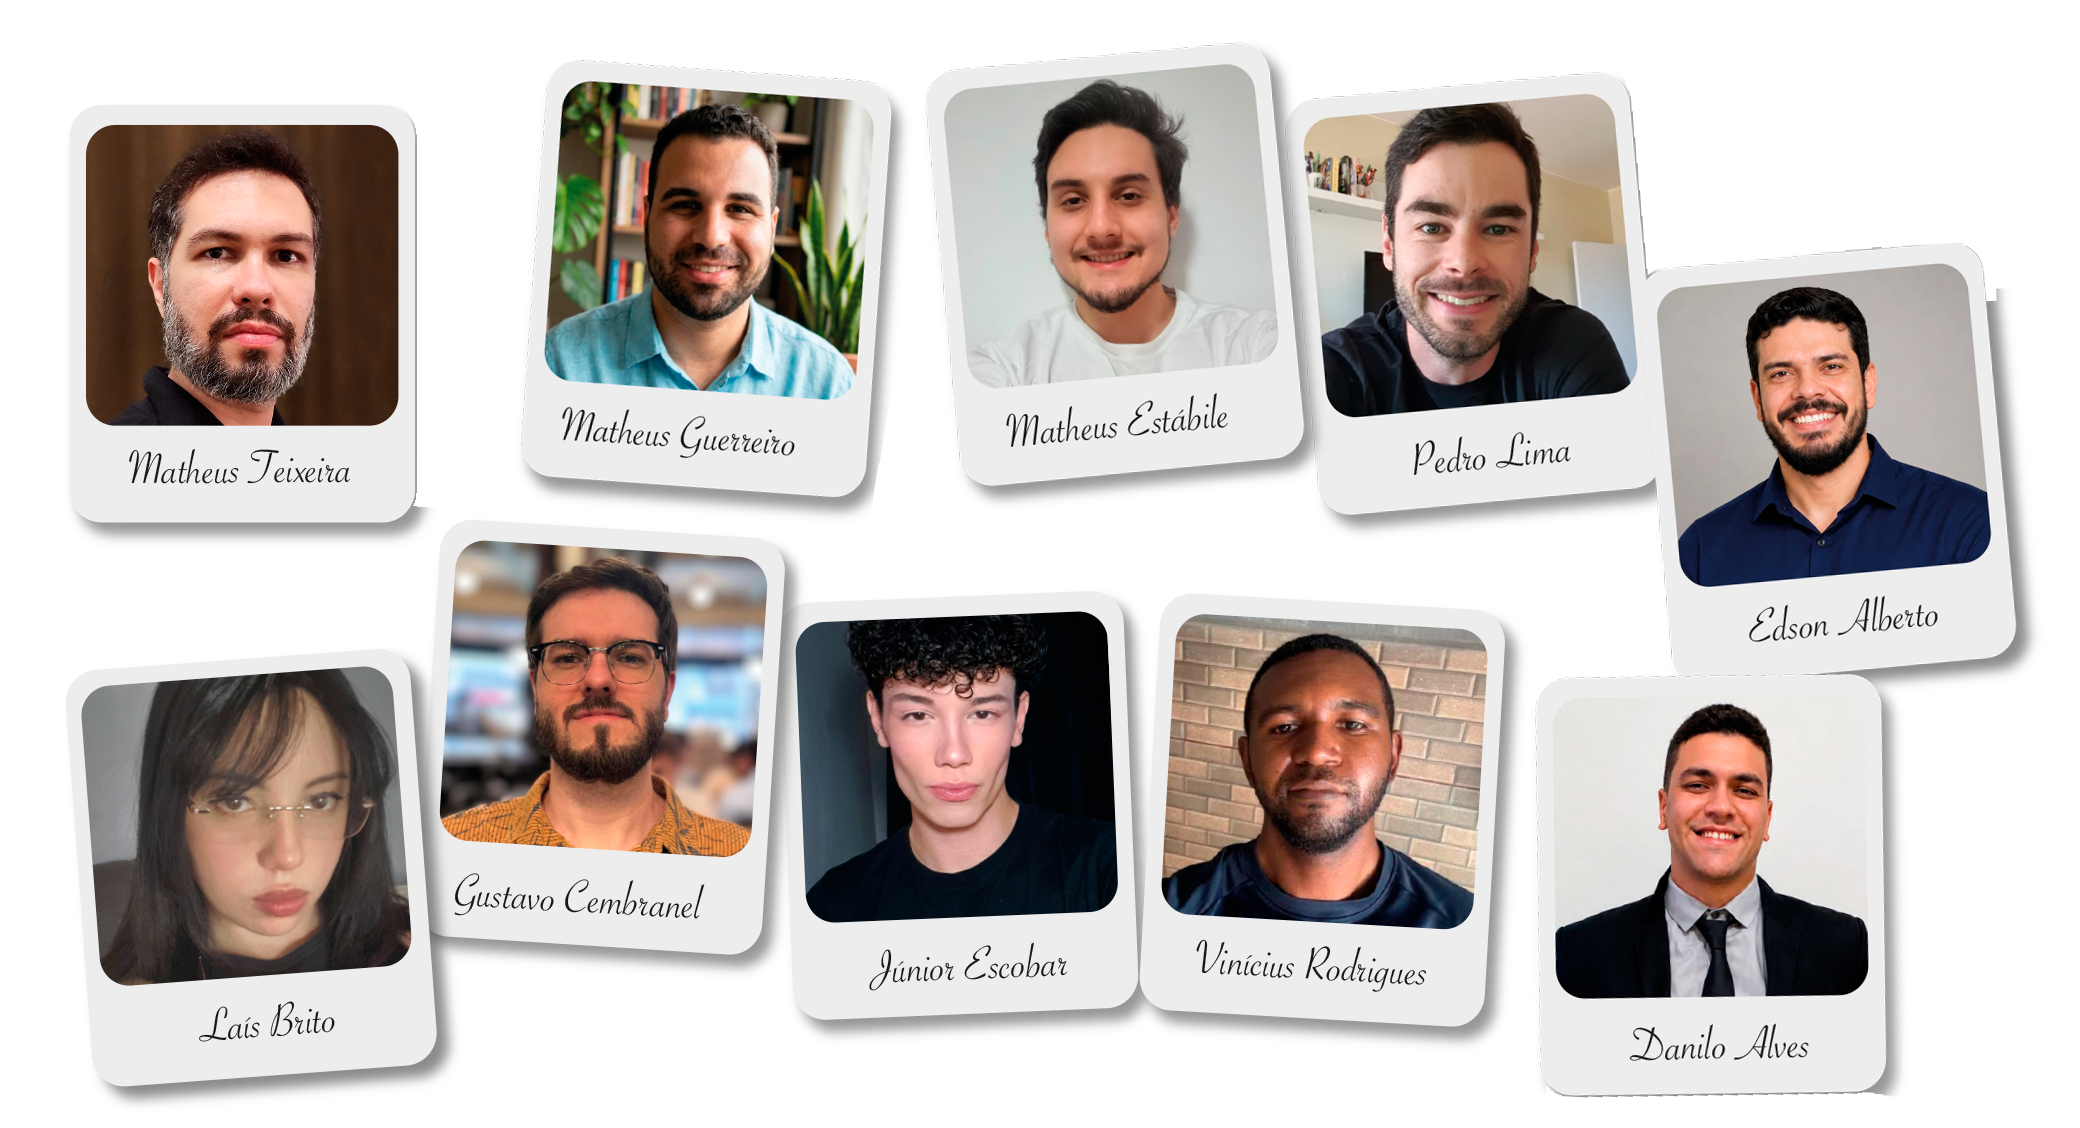
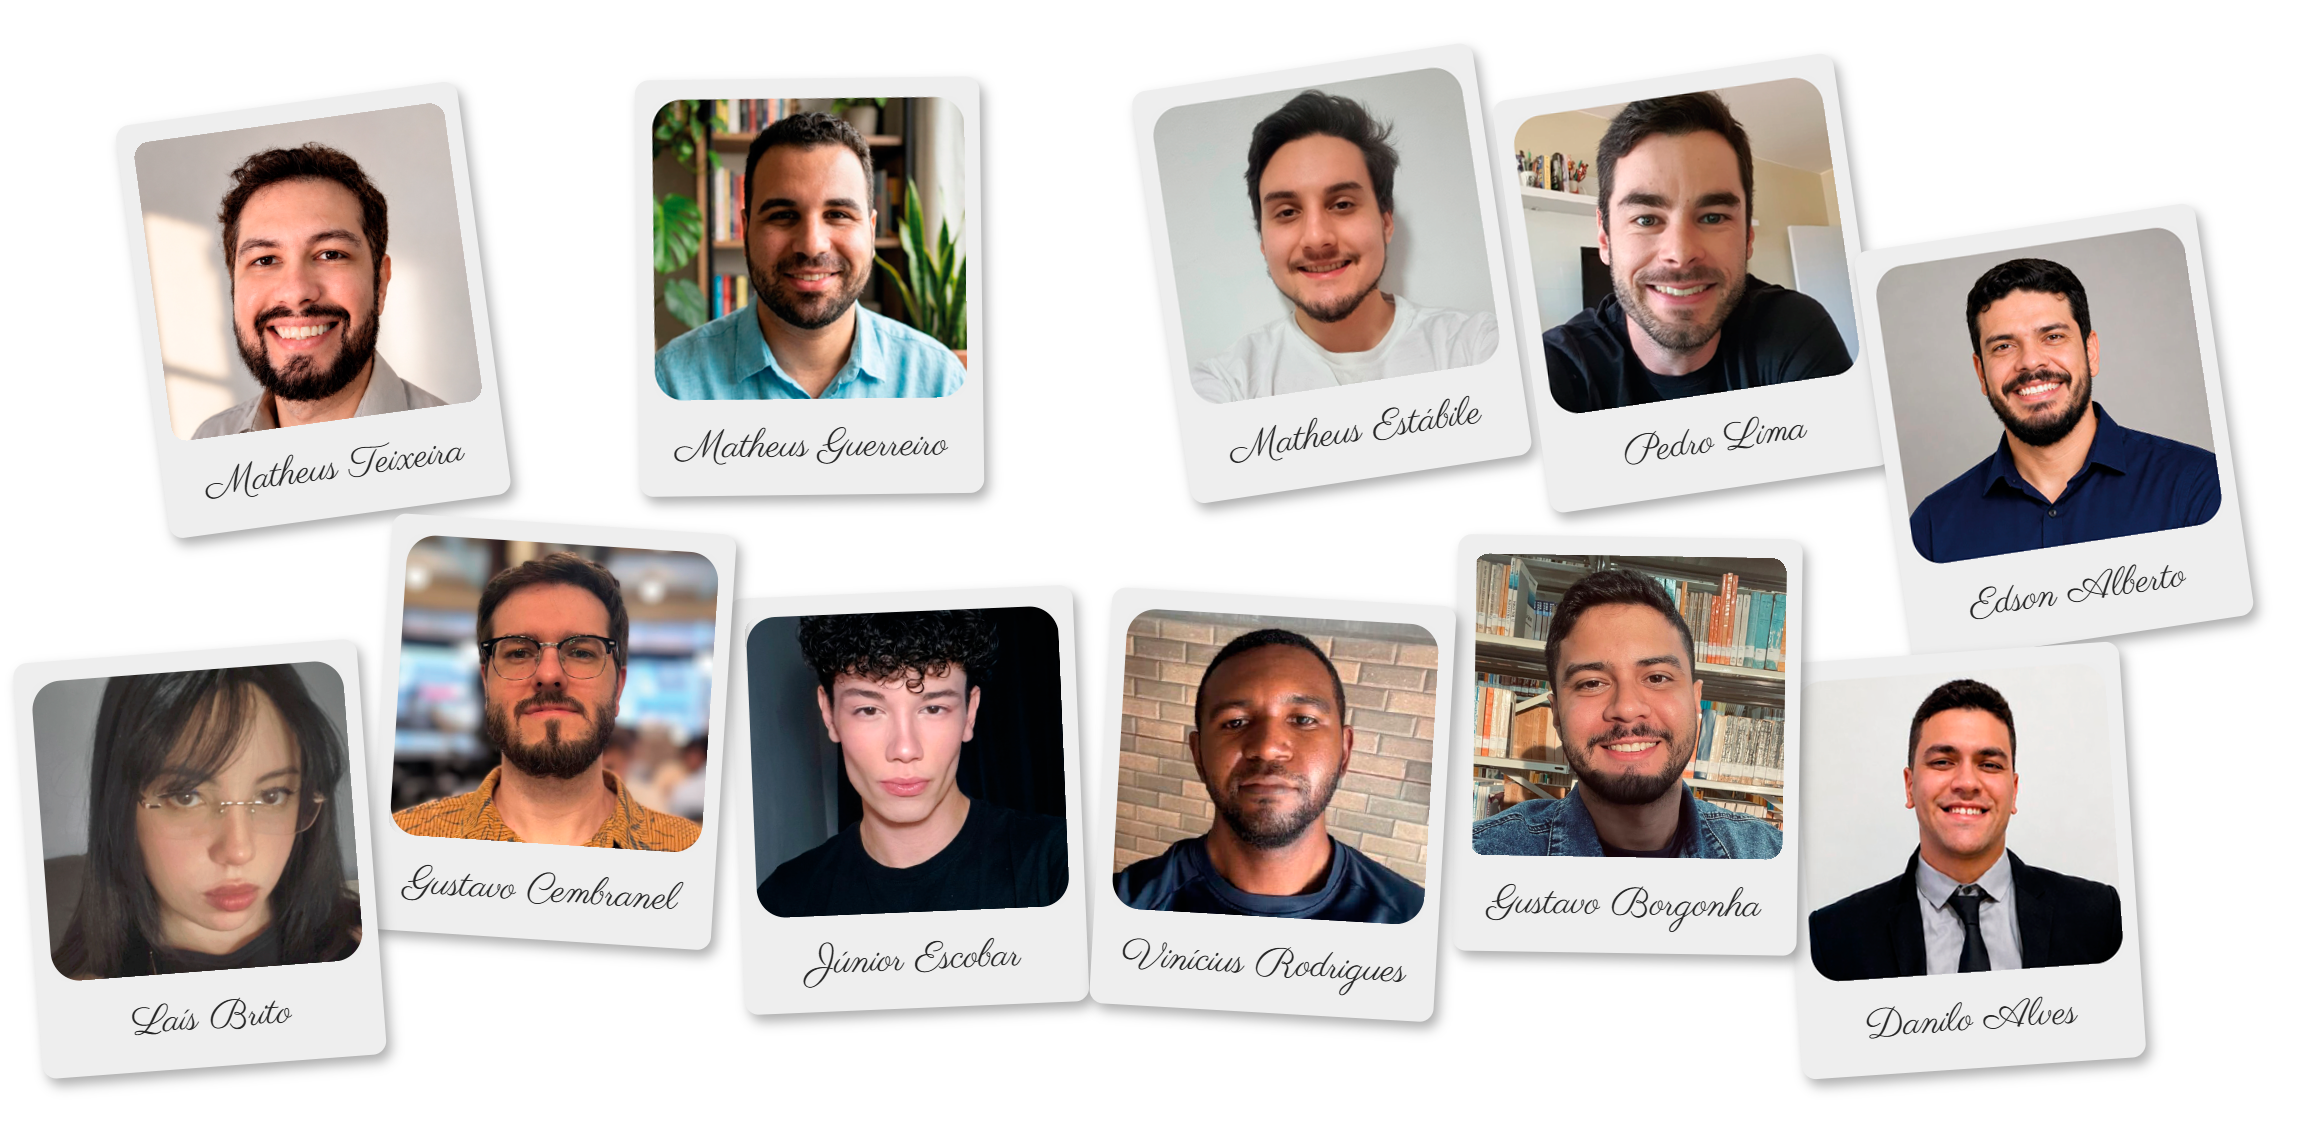
Inclusão borgonha

diff --git a/quemsomos.html b/quemsomos.html
@@ -87,10 +87,11 @@
                     <li><strong>Matheus Teixeira:</strong> Presidente. 3º colocado para o cargo Analista Legislativo - Jornalista. Doutor em Comunicação, canhoto, filho caçula e míope. Faz aniversário na data do PCCR da Alems.</li>
                     <li><strong>Danilo Alves:</strong> Tesoureiro. Habilitado para o cargo Técnico Legislativo - Policial Legislativo (na estratosfera). Bacharelando em Direito pela Unigran Dourados</li>
                     <li><strong>Matheus Estábile:</strong> Secretário Adjunto de Transparência. Aprovado para o cargo de Técnico Legislativo. 19 anos, acadêmico de direito e iniciante no mundo dos concursos.</li>
-                    <li><strong>Pedro Lima:</strong> Secretário de Comunicação. 1° colocado em Analista Legislativo - Publicitário. <br> Pai, marido e defensor da simplicidade. Fã de cuscuz, café quentinho e prosa boa.</li>
+                    <li><strong>Pedro Lima:</strong> Secretário de Comunicação. 1° colocado em Analista Legislativo - Publicitário. Pai, marido e defensor da simplicidade. Fã de cuscuz, café quentinho e prosa boa.</li>
                     <li><strong>Edson Alberto:</strong> 2º Secretário. 3º colocado em Técnico Legislativo - Refrigeração e Climatização. Pai, marido e apaixonado pelo impiedoso Clube de Regatas do Flamengo. Aventureiro no boxe e na música na horas vagas. Sempre disponível para uma conversa boa, cerveja gelada e churrasco.</li>
                     <li><strong>Lais Brito:</strong> Suplente. Apaixonada por tecnologia, música e mãe de gato. Cursando Ciências da computação e Técnico em Administração de empresas, conhecimento de Governança de TI. Proficiência em redes IP e segurança da informação, aliada a uma abordagem prática para troubleshooting e suporte de redes.</li>
                     <li><strong>Gustavo Cembranel:</strong> 1º Secretário. 2º colocado para o cargo Analista Legislativo - Administrador. Mestre cervejeiro, músico de garagem e um amante de esportes, mas que não pratica nenhum.</li>
+					<li><strong>Gustavo Borgonha:</strong>Assessor de mídias sociais. 13º colocado para Analista Legislativo – Área Administrativa. Gestor de Mídias Digitais pela UFMS, ex-supervisor de Qualidade do IBGE (2021-2024) e concurseiro da área de Controle, nas horas vagas.</li>
                     <li><strong>Júnior Escobar:</strong> Secretário de Transparência e Porta-Voz. Futuro Técnico Legislativo na área de Administração da Alems. Acadêmico de Direito pela UFMS. Defensor da justiça social, espiritualista, voz ativa pela causa LGBTQIA+, apaixonado pela cultura pop e alternativa e detetive amador da comissão nas horas vagas.</li>
                     <li><strong>Vinícius Rodrigues:</strong> Assessor Jurídico. Habilitado para Técnico Legislativo - Policial Legislativo. Bacharel em Direito pela UnB e Policial Militar de Minas Gerais.</li>
                 </ul>
@@ -111,7 +112,7 @@
                     <span class="text-xs font-bold text-slate-500 dark:text-slate-200 uppercase tracking-widest">Passe o mouse sobre os rostos</span>
                 </div>
 
-                <div class="absolute group cursor-help" style="top: 10%; left: 30%; width: 8%; height: 15%;">
+                <div class="absolute group cursor-help" style="top: 9%; left: 31%; width: 8%; height: 15%;">
                     <div class="w-full h-full absolute inset-0 border-4 border-transparent rounded-full transition-all duration-300 bg-institucional-900/0"></div>
                     <div class="absolute bottom-full -left-2 md:left-1/2 md:-translate-x-1/2 mb-2 w-56 md:w-72 bg-slate-900 dark:bg-black text-white rounded-xl p-3 md:p-4 opacity-0 group-hover:opacity-100 transition-all duration-300 pointer-events-none z-50 shadow-2xl transform translate-y-2 group-hover:translate-y-0">
                         <p class="font-bold text-institucional-100 text-sm md:text-base leading-tight  mb-1">Matheus Guerreiro</p>
@@ -134,8 +135,20 @@
                         <div class="absolute top-full left-1/2 -translate-x-1/2 border-[6px] border-transparent border-t-slate-900 dark:border-t-black"></div>
                     </div>
                 </div>
+				
+				<div class="absolute group cursor-help" style="top: 50%; left: 66%; width: 8%; height: 15%;">
+                    <div class="w-full h-full absolute inset-0 border-4 border-transparent rounded-full transition-all duration-300 bg-institucional-900/0"></div>
+                    <div class="absolute bottom-full -right-2 md:right-auto md:left-1/2 md:-translate-x-1/2 mb-2 w-56 md:w-72 bg-slate-900 dark:bg-black text-white rounded-xl p-3 md:p-4 opacity-0 group-hover:opacity-100 transition-all duration-300 pointer-events-none z-50 shadow-2xl transform translate-y-2 group-hover:translate-y-0">
+                        <p class="font-bold text-institucional-100 text-sm md:text-base leading-tight  mb-1">Gustavo Borgonha</p>
+                        <p class="text-[10px] md:text-xs text-emerald-400 font-semibold mb-2">Assessor de Mídias Sociais</p>
+                        <p class="text-[10px] md:text-xs text-slate-300 border-t border-slate-700 pt-2 mt-2 text-justify leading-relaxed">
+                            Assessor de mídias sociais. 13º colocado para Analista Legislativo – Área Administrativa. <br> Gestor de Mídias Digitais pela UFMS, ex-supervisor de Qualidade do IBGE (2021-2024) e concurseiro da área de Controle, nas horas vagas.
+                        </p>
+                        <div class="absolute top-full right-6 md:right-auto md:left-1/2 md:-translate-x-1/2 border-[6px] border-transparent border-t-slate-900 dark:border-t-black"></div>
+                    </div>
+                </div>
 
-                <div class="absolute group cursor-help" style="top: 58%; left: 79%; width: 8%; height: 15%;">
+                <div class="absolute group cursor-help" style="top: 55%; left: 80%; width: 8%; height: 15%;">
                     <div class="w-full h-full absolute inset-0 border-4 border-transparent rounded-full transition-all duration-300 bg-institucional-900/0"></div>
                     <div class="absolute bottom-full -right-2 md:right-auto md:left-1/2 md:-translate-x-1/2 mb-2 w-56 md:w-72 bg-slate-900 dark:bg-black text-white rounded-xl p-3 md:p-4 opacity-0 group-hover:opacity-100 transition-all duration-300 pointer-events-none z-50 shadow-2xl transform translate-y-2 group-hover:translate-y-0">
                         <p class="font-bold text-institucional-100 text-sm md:text-base leading-tight  mb-1">Danilo Alves</p>
@@ -147,7 +160,7 @@
                     </div>
                 </div>
 
-                <div class="absolute group cursor-help" style="top: 8%; left: 48%; width: 8%; height: 15%;">
+                <div class="absolute group cursor-help" style="top: 9%; left: 54%; width: 8%; height: 15%;">
                     <div class="w-full h-full absolute inset-0 border-4 border-transparent rounded-full transition-all duration-300 bg-institucional-900/0"></div>
                     <div class="absolute bottom-full left-1/2 -translate-x-1/2 mb-2 w-56 md:w-72 bg-slate-900 dark:bg-black text-white rounded-xl p-3 md:p-4 opacity-0 group-hover:opacity-100 transition-all duration-300 pointer-events-none z-50 shadow-2xl transform translate-y-2 group-hover:translate-y-0">
                         <p class="font-bold text-institucional-100 text-sm md:text-base leading-tight  mb-1">Matheus Estábile</p>
@@ -159,7 +172,7 @@
                     </div>
                 </div>
 
-                <div class="absolute group cursor-help" style="top: 9%; left: 66%; width: 8%; height: 15%;">
+                <div class="absolute group cursor-help" style="top: 8%; left: 68%; width: 8%; height: 15%;">
                     <div class="w-full h-full absolute inset-0 border-4 border-transparent rounded-full transition-all duration-300 bg-institucional-900/0"></div>
                     <div class="absolute bottom-full -right-2 md:right-auto md:left-1/2 md:-translate-x-1/2 mb-2 w-56 md:w-72 bg-slate-900 dark:bg-black text-white rounded-xl p-3 md:p-4 opacity-0 group-hover:opacity-100 transition-all duration-300 pointer-events-none z-50 shadow-2xl transform translate-y-2 group-hover:translate-y-0">
                         <p class="font-bold text-institucional-100 text-sm md:text-base leading-tight  mb-1">Pedro Lima</p>
@@ -171,7 +184,7 @@
                     </div>
                 </div>
 
-                <div class="absolute group cursor-help" style="top: 24%; left: 83%; width: 8%; height: 15%;">
+                <div class="absolute group cursor-help" style="top: 21%; left: 83%; width: 8%; height: 15%;">
                     <div class="w-full h-full absolute inset-0 border-4 border-transparent rounded-full transition-all duration-300 bg-institucional-900/0"></div>
                     <div class="absolute bottom-full -right-2 md:right-auto md:left-1/2 md:-translate-x-1/2 mb-2 w-56 md:w-72 bg-slate-900 dark:bg-black text-white rounded-xl p-3 md:p-4 opacity-0 group-hover:opacity-100 transition-all duration-300 pointer-events-none z-50 shadow-2xl transform translate-y-2 group-hover:translate-y-0">
                         <p class="font-bold text-institucional-100 text-sm md:text-base leading-tight  mb-1">Edson Alberto</p>
@@ -183,7 +196,7 @@
                     </div>
                 </div>
 
-                <div class="absolute group cursor-help" style="top: 57%; left: 10%; width: 8%; height: 15%;">
+                <div class="absolute group cursor-help" style="top: 55%; left: 5%; width: 8%; height: 15%;">
                     <div class="w-full h-full absolute inset-0 border-4 border-transparent rounded-full transition-all duration-300 bg-institucional-900/0"></div>
                     <div class="absolute bottom-full -left-2 md:left-1/2 md:-translate-x-1/2 mb-2 w-56 md:w-72 bg-slate-900 dark:bg-black text-white rounded-xl p-3 md:p-4 opacity-0 group-hover:opacity-100 transition-all duration-300 pointer-events-none z-50 shadow-2xl transform translate-y-2 group-hover:translate-y-0">
                         <p class="font-bold text-institucional-100 text-sm md:text-base leading-tight  mb-1">Lais Brito</p>
@@ -195,7 +208,7 @@
                     </div>
                 </div>
 
-                <div class="absolute group cursor-help" style="top: 49%; left: 25%; width: 8%; height: 15%;">
+                <div class="absolute group cursor-help" style="top: 45%; left: 20%; width: 8%; height: 15%;">
                     <div class="w-full h-full absolute inset-0 border-4 border-transparent rounded-full transition-all duration-300 bg-institucional-900/0"></div>
                     <div class="absolute bottom-full -left-2 md:left-1/2 md:-translate-x-1/2 mb-2 w-56 md:w-72 bg-slate-900 dark:bg-black text-white rounded-xl p-3 md:p-4 opacity-0 group-hover:opacity-100 transition-all duration-300 pointer-events-none z-50 shadow-2xl transform translate-y-2 group-hover:translate-y-0">
                         <p class="font-bold text-institucional-100 text-sm md:text-base leading-tight  mb-1">Gustavo Cembranel</p>
@@ -207,7 +220,7 @@
                     </div>
                 </div>
 
-                <div class="absolute group cursor-help" style="top: 52%; left: 42%; width: 8%; height: 15%;">
+                <div class="absolute group cursor-help" style="top: 52%; left: 35%; width: 8%; height: 15%;">
                     <div class="w-full h-full absolute inset-0 border-4 border-transparent rounded-full transition-all duration-300 bg-institucional-900/0"></div>
                     <div class="absolute bottom-full left-1/2 -translate-x-1/2 mb-2 w-56 md:w-72 bg-slate-900 dark:bg-black text-white rounded-xl p-3 md:p-4 opacity-0 group-hover:opacity-100 transition-all duration-300 pointer-events-none z-50 shadow-2xl transform translate-y-2 group-hover:translate-y-0">
                         <p class="font-bold text-institucional-100 text-sm md:text-base leading-tight  mb-1">Júnior Escobar</p>
@@ -219,7 +232,7 @@
                     </div>
                 </div>
 
-                <div class="absolute group cursor-help" style="top: 53%; left: 60%; width: 8%; height: 15%;">
+                <div class="absolute group cursor-help" style="top: 50%; left: 52%; width: 8%; height: 15%;">
                     <div class="w-full h-full absolute inset-0 border-4 border-transparent rounded-full transition-all duration-300 bg-institucional-900/0"></div>
                     <div class="absolute bottom-full left-1/2 -translate-x-1/2 mb-2 w-56 md:w-72 bg-slate-900 dark:bg-black text-white rounded-xl p-3 md:p-4 opacity-0 group-hover:opacity-100 transition-all duration-300 pointer-events-none z-50 shadow-2xl transform translate-y-2 group-hover:translate-y-0">
                         <p class="font-bold text-institucional-100 text-sm md:text-base leading-tight  mb-1">Vinícius Rodrigues</p>
